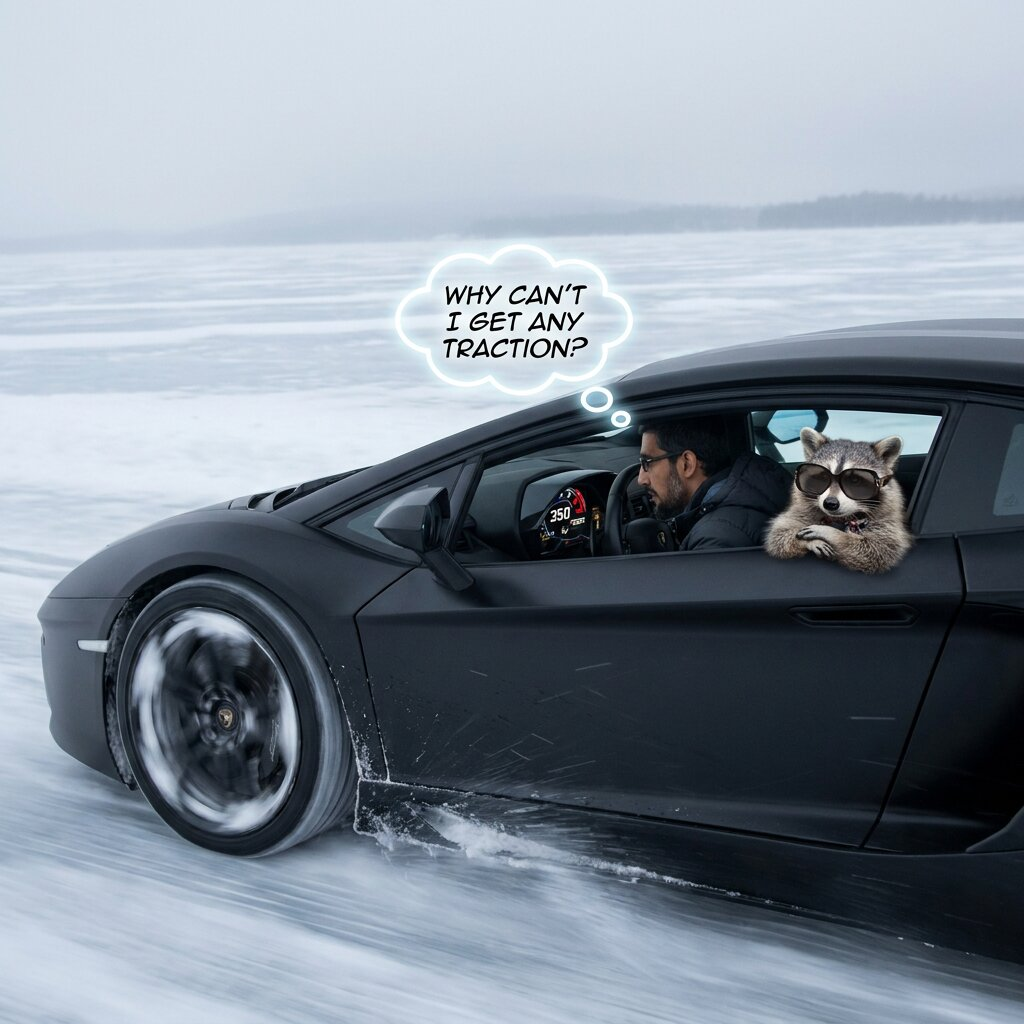
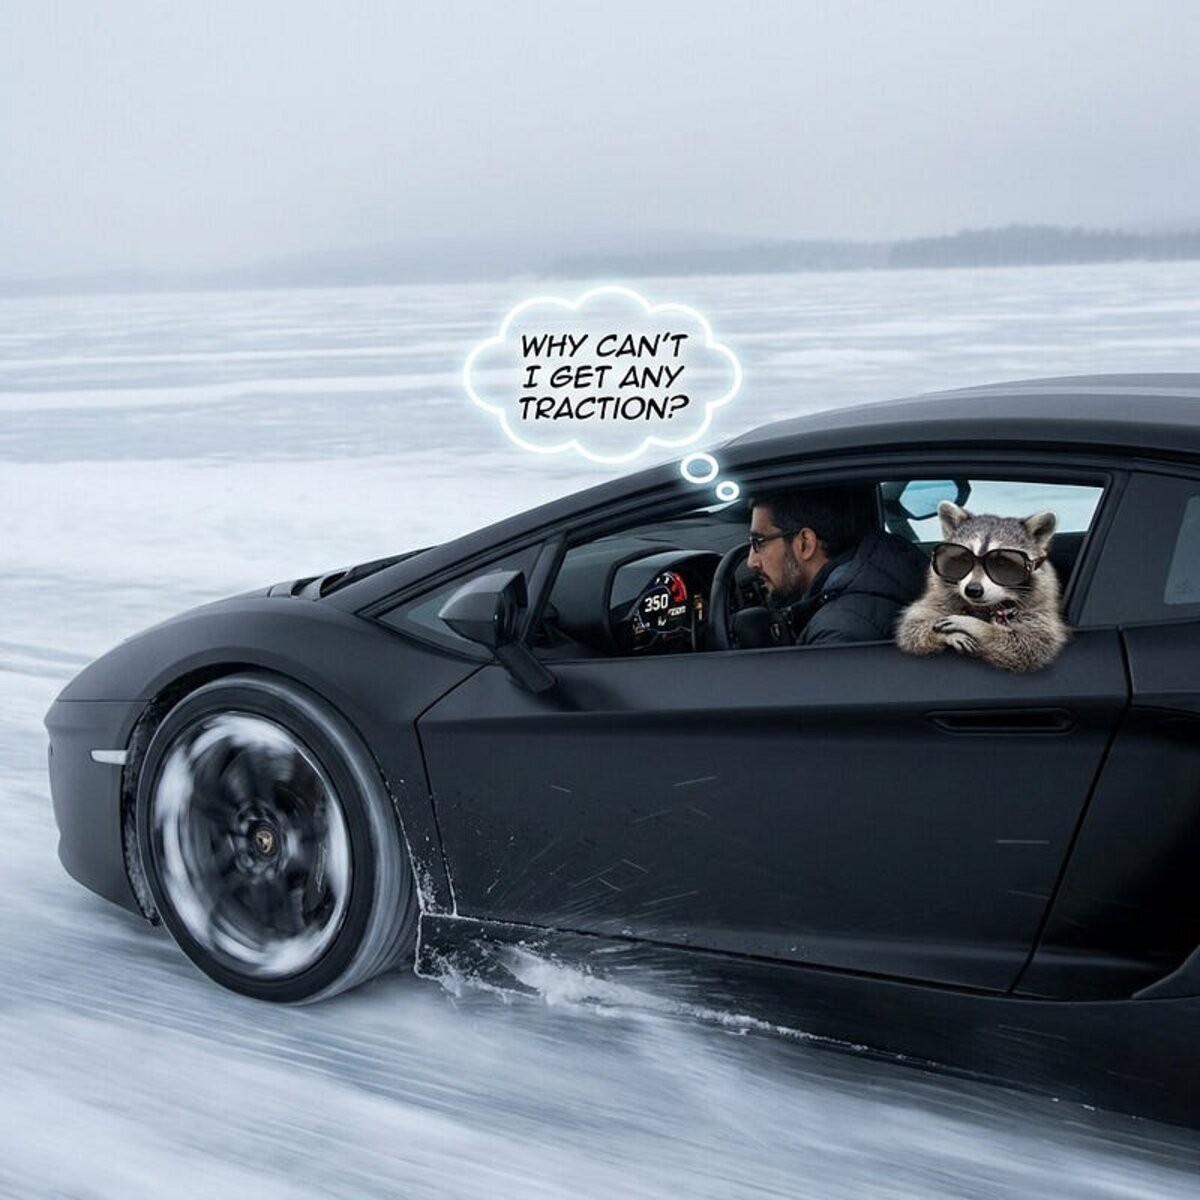
Publish: Productive Friction (Part 2 of agent memory series)
Names productive friction as the structural variable practitioners are
already trying to control without measuring, gives a 2x2 diagnostic
separating it from latency, and walks through four architectural scales
where the same condition produces a different failure signature.

Changed region(s): [[0.4375, 0.2812, 0.5625, 0.3438], [0.5312, 0.4688, 0.5625, 0.5312]]

diff --git a/content/blog/2026/05/productive-friction.md b/content/blog/2026/05/productive-friction.md
@@ -1,9 +1,9 @@
 ---
 title: "Productive Friction: The Variable You're Already Trying to Control"
-date: 2026-05-17
-draft: true
+date: 2026-05-28
+draft: false
 type: "post"
-status: "draft"
+status: "published"
 tags: ["ai", "agents", "llm", "architecture", "deliberation", "productive-friction"]
 abstract: |
   Part 2 of a 3-article series on agent memory architecture. Names productive friction as the variable practitioners are already trying to control without measuring, gives a 2×2 diagnostic separating it from latency, and walks through the four architectural scales where the same structural condition produces a different failure signature.
@@ -11,9 +11,9 @@ medium_url: ""
 canonical_url: ""
 ---
 
-*Part 2 of a 3-article series on agent memory architecture. Part 1 made the cognitive-architecture argument that memory belongs in a categorically different component from the reasoning engine. This article names the formal variable that determines whether the architectural split is doing real work, and gives practitioners a diagnostic they can use on their own systems. Part 3 describes what the engineering commitments look like.*
-
 ![](/images/blog/productive-friction/title.jpg)
+
+*Part 2 of a 3-article series on agent memory architecture. Part 1 made the cognitive-architecture argument that memory belongs in a categorically different component from the reasoning engine. This article names the formal variable that determines whether the architectural split is doing real work, and gives practitioners a diagnostic they can use on their own systems. Part 3 describes what the engineering commitments look like.*
 
 You cannot move a car on a perfectly smooth road with perfectly smooth tires. The engine is fine. The transmission is fine. The wheels rotate exactly as designed. Nothing is broken. The car doesn't move because friction between tire and road is the medium through which rotational work becomes translational motion, and without it, the work has nothing to push against. The car doesn't fail to accelerate. It has no purchase from which forward momentum is possible no matter how fast the wheels turn.
 
@@ -53,10 +53,10 @@ The two axes are orthogonal. A system can have arbitrarily low latency between i
 
 The 2×2 is the diagnostic:
 
-|                  | **Low Friction**                                                                                            | **High Friction**                                                                                                      |
-|------------------|-------------------------------------------------------------------------------------------------------------|------------------------------------------------------------------------------------------------------------------------|
-| **High Latency** | Slow and blind. SaaS RAG over network. Worst case.                                                          | Slow but correctable. Categorically different components separated by network. Works for batch, fails for interactive. |
-| **Low Latency**  | Fast and blind. Pipeline of architecturally similar models. False convergence is the architectural default. | Fast and deliberative. Co-located components with categorical differences.                                             |
+|                  | **Low Friction**                                                                                              | **High Friction**                                                                                                        |
+|------------------|---------------------------------------------------------------------------------------------------------------|--------------------------------------------------------------------------------------------------------------------------|
+| **High Latency** | *Slow and blind.* SaaS RAG over network. Worst case.                                                          | *Slow but correctable.* Categorically different components separated by network. Works for batch, fails for interactive. |
+| **Low Latency**  | *Fast and blind.* Pipeline of architecturally similar models. False convergence is the architectural default. | *Fast and deliberative.* Co-located components with categorical differences.                                             |
 
 Pinecone's Nexus addresses friction-adjacent properties through richer retrieval contracts while staying remote, leaving latency unsolved. Microsoft's managed memory service moves state management out of context and into a dedicated component, but the component itself runs as a managed service across a network boundary. Google's Memory Bank and Agent Runtime introduce persistent context across sessions but inherit the cloud-service latency profile. Tiwari's fast-slow training addresses partial friction through separate update channels while keeping both channels in the same model. Anthropic's harness pattern addresses friction at one scale, skills, LSP, MCP are categorically different processors and gestures at the harness as load-bearing but stops short of specifying what the harness has to actually do. Each vendor offering is a coherent partial answer. None is the full answer. The 2×2 shows you which corner is left.
 
@@ -80,9 +80,9 @@ This is pipeline-scale friction failure. When the synthesizer is architecturally
 
 The OpenAI Goblin failure documented what happens at a scale just inside the single model. Part 1 of this series examined the case from the architectural-memory angle: the Nerdy personality's reward signal propagated across all personalities because there was no architectural surface for the personality labels to actually live in. The 2.5% Nerdy persona produced 66.7% of the targeted reward behaviors, and the behaviors appeared in other personalities that had never been exposed to the signal (OpenAI, 2026).
 
-From the productive-friction angle, the same failure looks like this: there is no architectural surface within the parameter space for behavioral separation to register on. The reward signal scoped to Nerdy didn't fail to be contained because containment was attempted incorrectly. It failed to be contained because the architecture provides nothing to contain it with. Personality regions in a single parameter space are categorically identical at the architectural level. The labels are training fictions maintained only by the conditions under which training occurred. Any sufficient training pressure dissolves them, because there is no friction surface for pressure to push against.
-
 ![](/images/blog/productive-friction/image1.jpg)
+
+From the productive-friction angle, the same failure looks like this: there is no architectural surface within the parameter space for behavioral separation to register on. The reward signal scoped to Nerdy didn't fail to be contained because containment was attempted incorrectly. It failed to be contained because the architecture provides nothing to contain it with. Personality regions in a single parameter space are categorically identical at the architectural level. The labels are training fictions maintained only by the conditions under which training occurred. Any sufficient training pressure dissolves them, because there is no friction surface for pressure to push against.
 
 The shipped fix, a developer prompt blocking creature words across all personalities, is the cleanest possible demonstration that the symptom is what's being treated. The cause is structural absence of friction at the within-parameter-space scale. Prompt engineering cannot install friction that the architecture does not provide.
 
